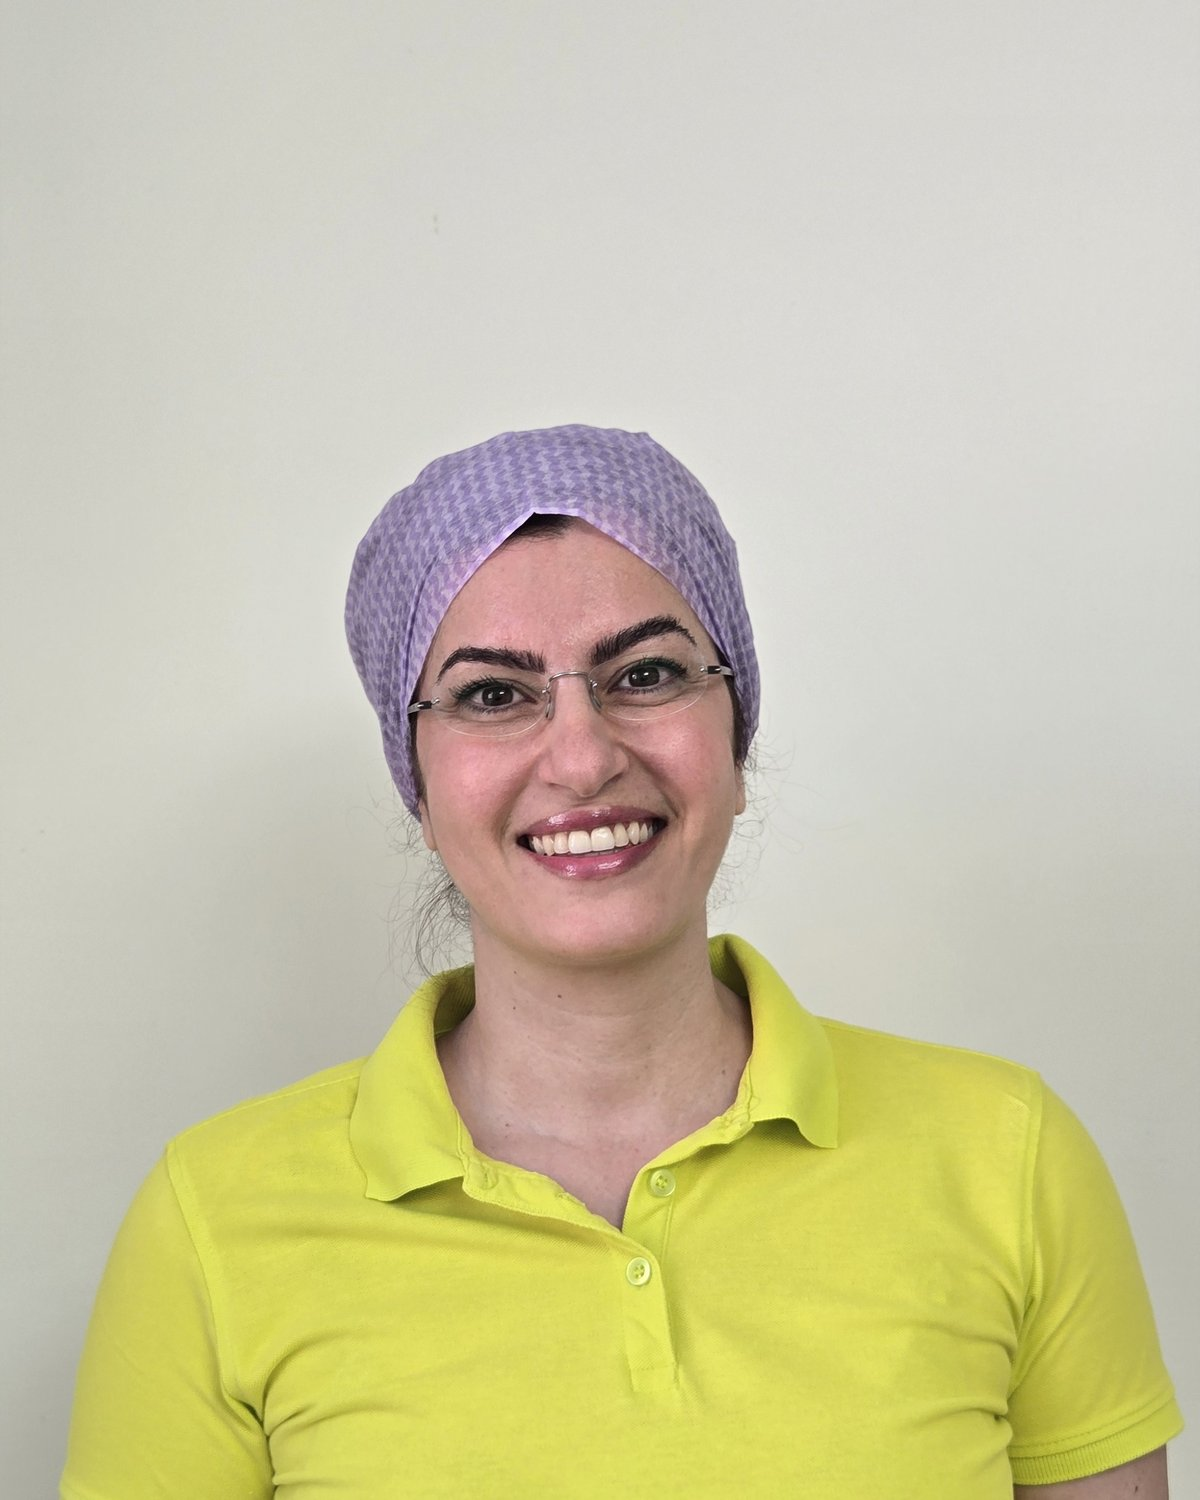
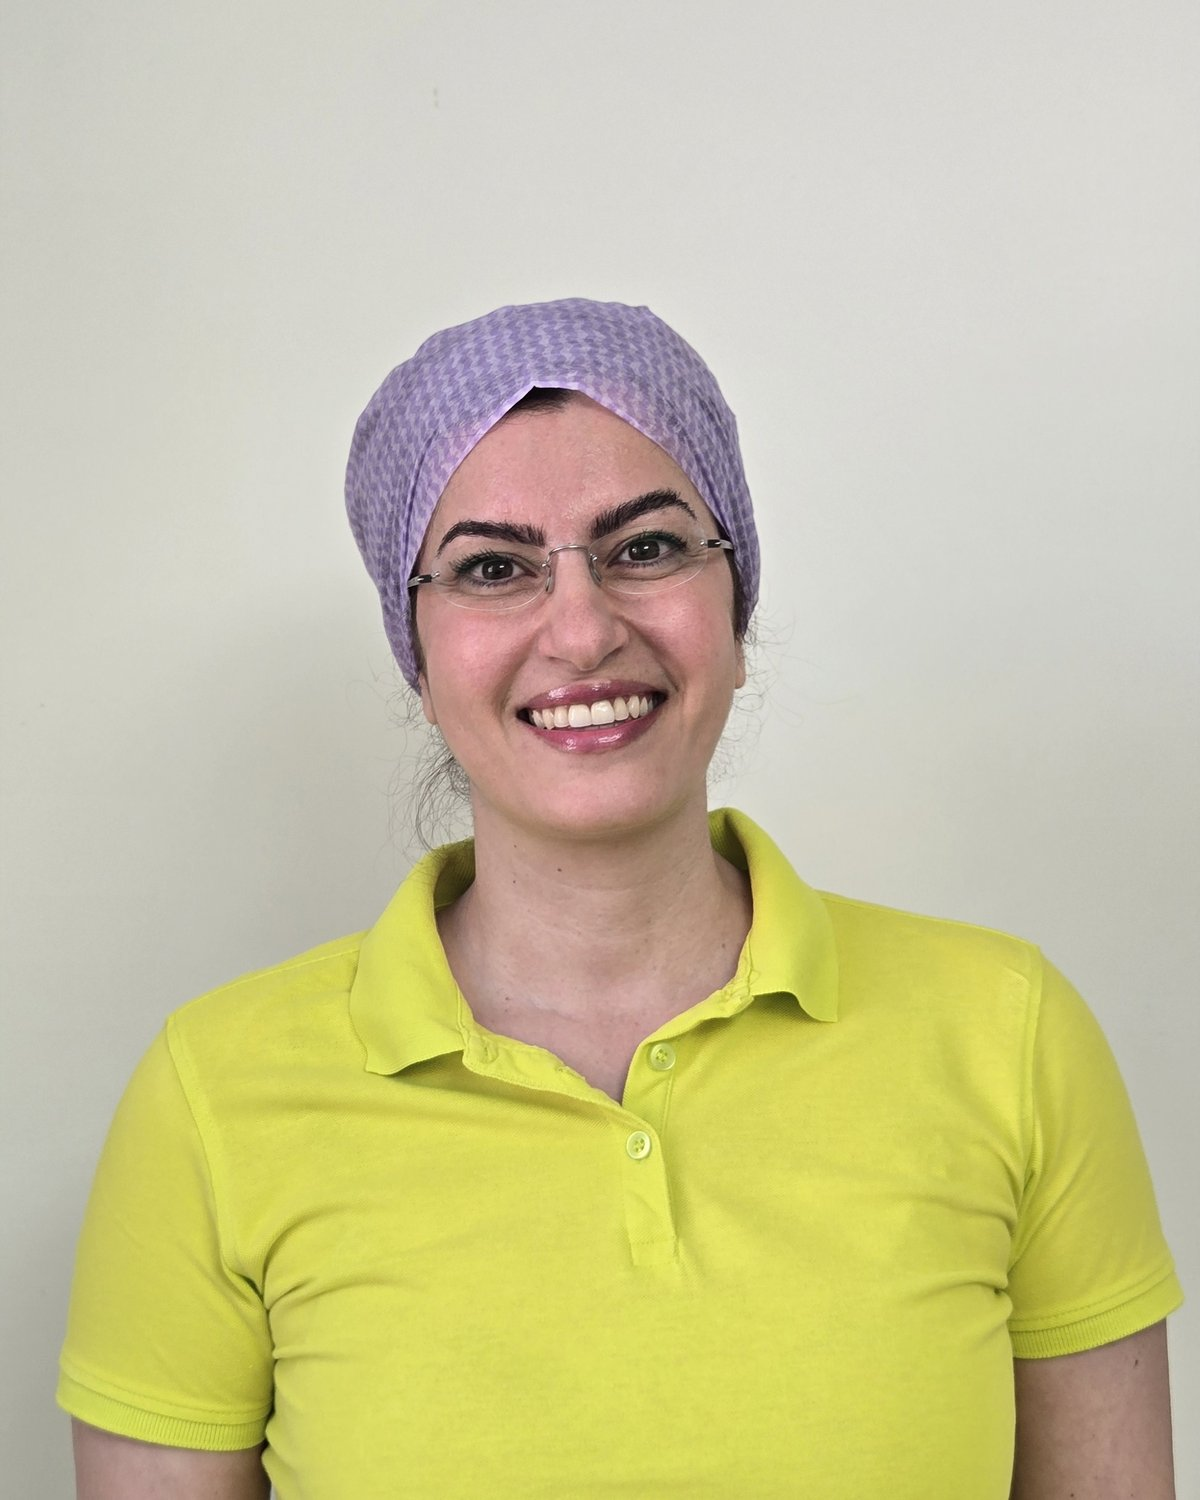
Tighten portrait crops + bias kirurgi thumb upward
- Allan centering 0.55 -> 0.8 (portrait had lots of wall above head)
- Hana centering 0.42 -> 0.55 (moderate bump)
- Kirurgi thumb centering (0.5, 0.5) -> (0.5, 0.3) so hands/action
  sit in upper frame, white drape no longer dominates bottom

Changed region(s): [[0.0308, 0.184, 0.9867, 1.0], [0.7708, 0.8587, 0.8017, 0.8893], [0.2467, 0.7973, 0.2775, 0.828]]

diff --git a/normalize_photos.py b/normalize_photos.py
@@ -30,15 +30,23 @@ MAX_DIM = 2000
 QUALITY = 85
 
 # Service card thumbnails are rendered in a short landscape strip (h-32 ~= 128px).
-# Force-fit these slots to a wide 2:1 crop so portrait sources don't get squeezed to
-# a useless vertical sliver.
-SERVICE_SLOTS = {"service-generel.jpg", "service-kirurgi.jpg", "service-kroner.jpg", "service-akut.jpg"}
+# Force-fit these slots to a wide 2:1 crop. Per-slot centering so subject lands
+# in the visible strip rather than cropping it out.
 SERVICE_SIZE = (1400, 700)  # 2:1 landscape
+SERVICE_CENTERING = {
+    "service-generel.jpg": (0.5, 0.5),
+    "service-kirurgi.jpg": (0.5, 0.3),   # bias up — show hands/action, cut drape
+    "service-kroner.jpg":  (0.5, 0.5),
+    "service-akut.jpg":    (0.5, 0.5),
+}
 
-# Team portraits: pre-crop to the card aspect (4:5) centered around upper-mid so
-# the face/shoulders fill the frame instead of leaving wall above the head.
-PORTRAIT_SLOTS = {"allan-portrait.jpg", "hana-portrait.jpg"}
-PORTRAIT_SIZE = (1200, 1500)  # 4:5 portrait, face-biased centering below
+# Team portraits: pre-crop to the card aspect (4:5) with per-subject centering
+# so the face/shoulders fill the frame, not wall above the head.
+PORTRAIT_SIZE = (1200, 1500)  # 4:5 portrait
+PORTRAIT_CENTERING = {
+    "allan-portrait.jpg": (0.5, 0.8),   # Allan framed very loose → strong down-bias
+    "hana-portrait.jpg":  (0.5, 0.55),  # Hana framed tighter → moderate bias
+}
 
 for slot, src_name in FINALISTS.items():
     src_path = SRC / src_name
@@ -53,12 +61,10 @@ for slot, src_name in FINALISTS.items():
     if img.mode != "RGB":
         img = img.convert("RGB")
     # Crop/resize depending on slot
-    if slot in SERVICE_SLOTS:
-        img = ImageOps.fit(img, SERVICE_SIZE, Image.LANCZOS, centering=(0.5, 0.5))
-    elif slot in PORTRAIT_SLOTS:
-        # centering y=0.35 biases the crop upward so face sits in upper-middle
-        # of the card rather than leaving empty wall above the head
-        img = ImageOps.fit(img, PORTRAIT_SIZE, Image.LANCZOS, centering=(0.5, 0.35))
+    if slot in SERVICE_CENTERING:
+        img = ImageOps.fit(img, SERVICE_SIZE, Image.LANCZOS, centering=SERVICE_CENTERING[slot])
+    elif slot in PORTRAIT_CENTERING:
+        img = ImageOps.fit(img, PORTRAIT_SIZE, Image.LANCZOS, centering=PORTRAIT_CENTERING[slot])
     elif max(img.size) > MAX_DIM:
         img.thumbnail((MAX_DIM, MAX_DIM), Image.LANCZOS)
     img.save(dst_path, "JPEG", quality=QUALITY, optimize=True)
